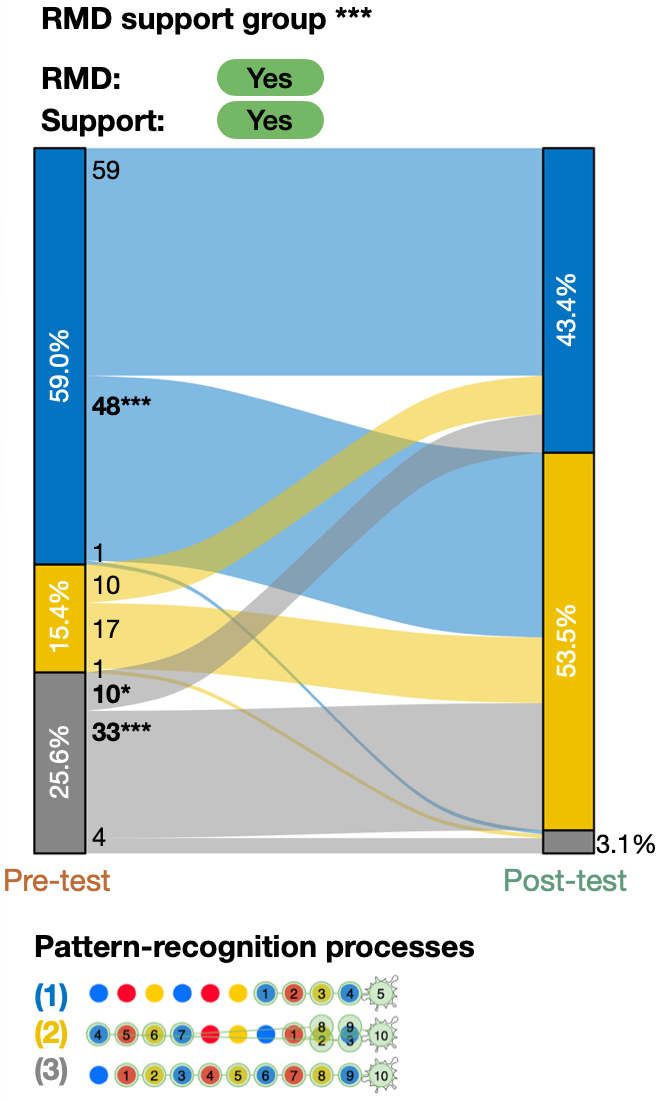
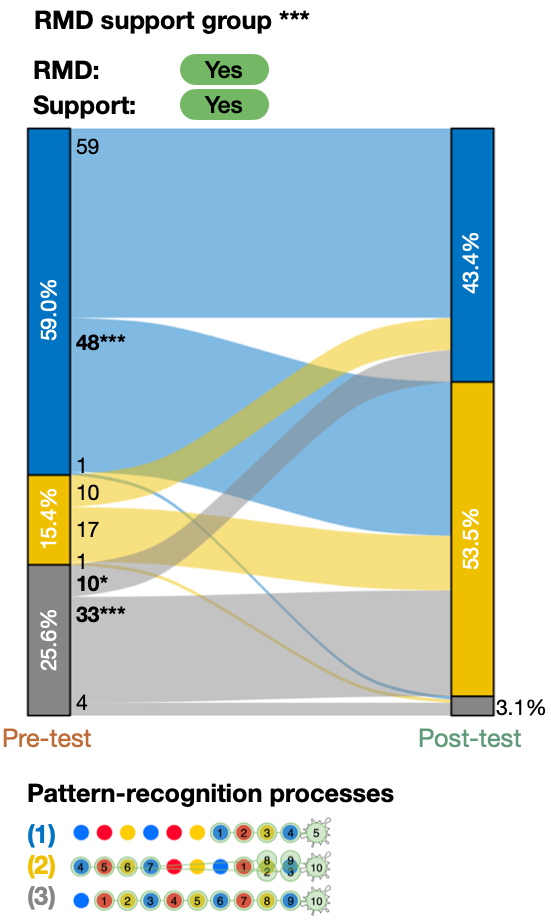
a

diff --git a/index.html b/index.html
@@ -216,7 +216,7 @@
               <!-- <a href="https://doi.org/10.1007/978-3-032-05493-7_9" target="_blank"> -->
                 <picture>
                   <source media="(prefers-color-scheme: light)" srcset="/assets/img/2026ESM.png 300w" width="300">
-                  <source media="(prefers-color-scheme: dark)" srcset="/assets/img/2026ESM.png 300w" width="300">
+                  <source media="(prefers-color-scheme: dark)" srcset="/assets/img/2026ESMdark.png 300w" width="300">
                   <img src="https://some.cdn/img/light.jpg" alt="Cover of the AJME article" width="300" loading="lazy">
                 </picture>
               <!-- </a> -->